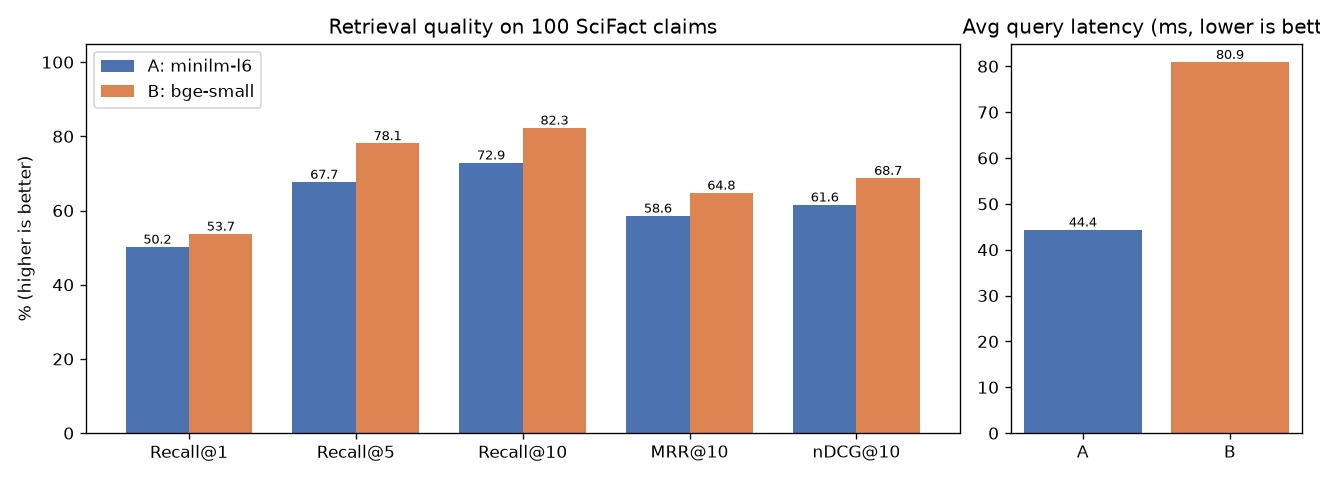
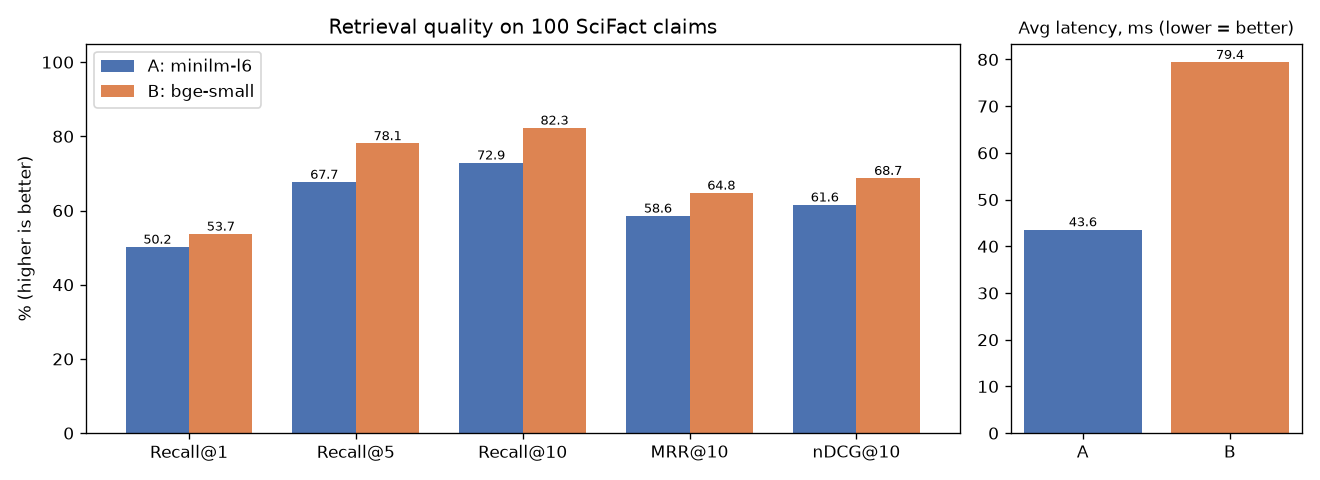
Final run: outputs, plots, screenshots, registry aliases and README results

diff --git a/evaluate.py b/evaluate.py
@@ -192,7 +192,7 @@ with mlflow.start_run(run_name="compare_semantic_search") as parent:
     axs[0].set_ylabel("% (higher is better)"); axs[0].set_ylim(0, 105); axs[0].legend(loc="upper left")
     axs[0].set_title("Retrieval quality on 100 SciFact claims")
     bars = axs[1].bar(["A", "B"], [a["avg_latency_ms"], b["avg_latency_ms"]], color=["#4C72B0", "#DD8452"])
-    axs[1].bar_label(bars, fmt="%.1f", fontsize=8); axs[1].set_title("Avg query latency (ms, lower is better)")
+    axs[1].bar_label(bars, fmt="%.1f", fontsize=8); axs[1].set_title("Avg latency, ms (lower = better)", fontsize=10)
     fig.tight_layout(); fig.savefig("outputs/metric_comparison.png", dpi=120)
     mlflow.log_figure(fig, "metric_comparison.png"); plt.close(fig)
 

diff --git a/README.md b/README.md
@@ -11,8 +11,66 @@
 | Model B – Challenger | `BAAI/bge-small-en-v1.5` (~33M, table row 22) |
 | Inference settings | CPU, max_length 128, corpus batch_size 32, one query at a time, cosine similarity on normalised embeddings, top_k 10 |
 
+Pairing "21 vs 22" is one of the suggested semantic-search pairings in the brief. BGE expects the instruction prefix `Represent this sentence for searching relevant passages: ` on queries only (not on passages), so `st_wrapper.py` adds it for Model B; MiniLM uses no prefix. The same corpus text (`title. abstract`) and the same 100 claims, in the same order, are used for both models.
+
+## 2. How to run
+```bash
+pip install -r requirements.txt
+python -m mlflow server --host 127.0.0.1 --port 5000 --backend-store-uri sqlite:///mlflow.db
+# in a second terminal:
+python evaluate.py                       # runs A and B on the same 100 claims, logs everything, makes the decision
+python register_champion.py              # registers both versions, sets @champion / @challenger aliases
+python predict_from_mlflow.py            # loads models:/1MS25CI040-semantic-search-model@champion and searches data/new_data.csv
+python predict_from_mlflow.py challenger # stretch goal: same script, other alias, no code change
+```
+MLflow experiment: `1MS25CI040-hf-semantic-search-champion-challenger` · Registered model: `1MS25CI040-semantic-search-model`
+(To use another tracking server or store, set `MLFLOW_TRACKING_URI`. No run IDs are hard-coded.)
+The first run downloads both models (~90 MB + ~130 MB) and the SciFact files. Encoding the 5,183 abstracts takes a few minutes per model on a CPU.
+
 ## 3. Champion rule (written before the final run)
-- **Primary metric:** nDCG@10 (%) on the shared 100 claims. **Higher is better.**
-- **Margin:** B must beat A by **at least 2.0 nDCG@10 points**.
+- **Primary metric:** nDCG@10 (%) on the shared 100 claims. **Higher is better.** nDCG rewards putting the relevant abstract near the top and handles claims with more than one relevant abstract.
+- **Margin:** B must beat A by **at least 2.0 nDCG@10 points**. With only 100 claims, one claim moving from rank 1 to "not found" changes nDCG@10 by up to 1 point, so a gain under 2 points could come from one or two lucky claims.
 - **Guardrail:** B is rejected if its average query latency is **more than 3×** A's. **Lower latency is better.**
 - **Tie-breaker:** if |Δ nDCG@10| < 2.0, keep the **faster** model.
+- Secondary metrics (reported, not used for the decision): Recall@1/5/10 ↑, MRR@10 ↑, total query time ↓, corpus encoding time ↓.
+
+## 4. Results
+| Metric | A: MiniLM-L6 | B: BGE-small | B − A |
+|---|---:|---:|---:|
+| Recall@1 ↑ | 50.20 | 53.70 | +3.50 |
+| Recall@5 ↑ | 67.70 | 78.10 | +10.40 |
+| Recall@10 ↑ | 72.90 | 82.30 | +9.40 |
+| MRR@10 ↑ | 58.57 | 64.77 | +6.20 |
+| **nDCG@10 ↑ (primary)** | **61.57** | **68.73** | **+7.16** |
+| Avg query latency (ms) ↓ | 43.60 | 79.43 | 1.82× |
+| Total query time, 100 claims (s) ↓ | 4.36 | 7.94 | +3.58 |
+| Corpus encoding, 5,183 abstracts (s) ↓ | 137.6 | 278.4 | +140.8 |
+
+The two models return a different top-1 abstract for 40 of the 100 claims (`outputs/disagreements.csv`); in those, B's top-1 is correct 11 times and A's 7 times. Five are commented in `outputs/qualitative_examples.csv`.
+Plots: `outputs/metric_comparison.png`, `outputs/recall_at_k_curve.png`, `outputs/first_relevant_rank_*.png`.
+
+## 5. Decision – Challenger wins: Model B (`BAAI/bge-small-en-v1.5`) becomes Champion
+Yes, the Challenger clearly improves on the Champion. Its nDCG@10 is 68.73 against 61.57, a gain of +7.16 points, more than three times the 2.0-point margin fixed before the run. Its average query latency is 1.82× MiniLM's (79 ms vs 44 ms), which is inside the 3× guardrail, so the rule promotes B. `register_champion.py` therefore gives version 2 (BGE-small) the `@champion` alias and version 1 (MiniLM) the `@challenger` alias.
+
+Is the difference meaningful? Probably yes. The gain is not one lucky claim: B is ahead on every quality metric, and the gap grows further down the list (Recall@5 +10.4, Recall@10 +9.4), meaning BGE finds the right abstract for many claims where MiniLM misses it completely. Still, 100 claims from one biomedical dataset is a small sample, and the Recall@1 gain (+3.5) is small enough to be noise.
+
+Trade-offs: BGE-small has about 1.5× the parameters (33M vs 22M), takes twice as long to encode the corpus and to answer a query, and needs the query instruction prefix. On my 8 hand-written claims the new Champion put the expected abstract first in 5/8 and MiniLM in 6/8 (both 8/8 in the top 3), so on easy, plain-language queries the two are close. 8 claims are far too few to change the decision, and the rule was fixed on the evaluation set.
+
+## 6. Limitations and declaration
+- Only 100 SciFact claims (biomedical), so a few points either way is within noise. Results may differ on other domains such as news or product search.
+- Abstracts were truncated to 128 tokens for both models to keep CPU time reasonable; longer inputs might help BGE (trained up to 512) more than MiniLM.
+- SciFact labels some claims as refuted, so the "relevant" abstract can contradict the claim. Both models only match topics; neither reasons about whether the claim is true (see q_034 in the qualitative examples).
+- Latency was measured on a CPU, one query at a time, with a warm-up call excluded. It varies between runs; the ratio is more reliable than the absolute ms.
+- `predict_from_mlflow.py` never calls Hugging Face directly. It loads the model through the alias URI, and the pyfunc wrapper (`st_wrapper.py`) calls sentence-transformers inside MLflow. The version and HF model ID are read from the registry tags. The corpus and its embeddings are stored as model artifacts, so the loaded model can search on its own.
+- New data (`data/new_data.csv`, 8 claims I wrote in my own words, each with the abstract I expect) is not from the SciFact test claims, and none of the expected abstracts is a relevant document for any test claim.
+- AI assistant used: Hark (AI assistant) helped write and debug the scripts and README. I can explain every line.
+
+## 7. Repository structure
+```
+data/        eval_inputs.csv, new_data.csv
+outputs/     predictions_*.csv, metrics_summary*.json, model_comparison.csv, disagreements.csv, qualitative_examples.csv,
+             metric_comparison.png, recall_at_k_curve.png, first_relevant_rank_*.png,
+             new_data_predictions*.csv, model_runs.json, *_terminal.txt
+screenshots/ MLflow runs, compare view, summary run, registry aliases, predict_from_mlflow.py and register terminal output
+evaluate.py, st_wrapper.py, register_champion.py, predict_from_mlflow.py, requirements.txt, .gitignore
+```
